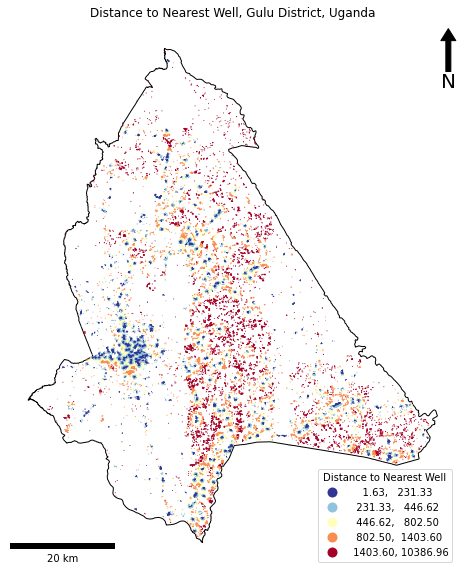
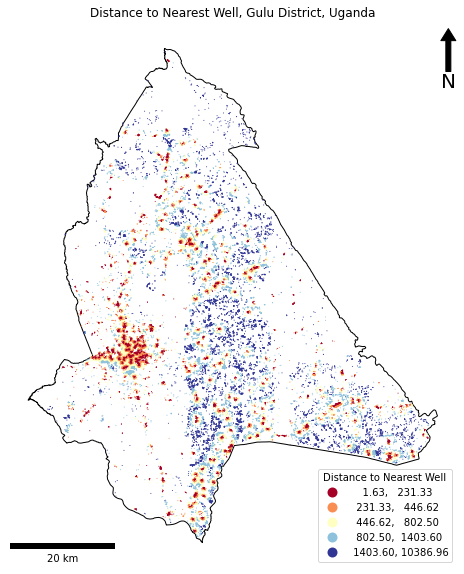
changed colour of map

diff --git a/week3/week3.py b/week3/week3.py
@@ -124,7 +124,7 @@ pop_points.plot(
     column = 'nearest_well',
     linewidth = 0,
 	markersize = 1,
-    cmap = 'RdYlBu_r',
+    cmap = 'RdYlBu',
     scheme = 'quantiles',
     legend = 'True',
     legend_kwds = {
